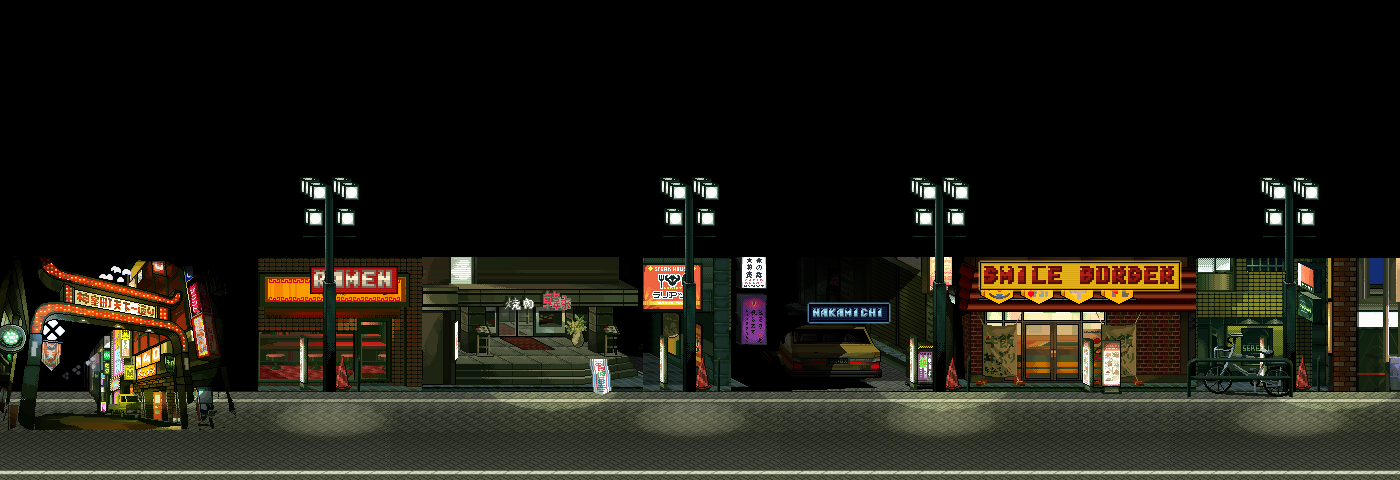
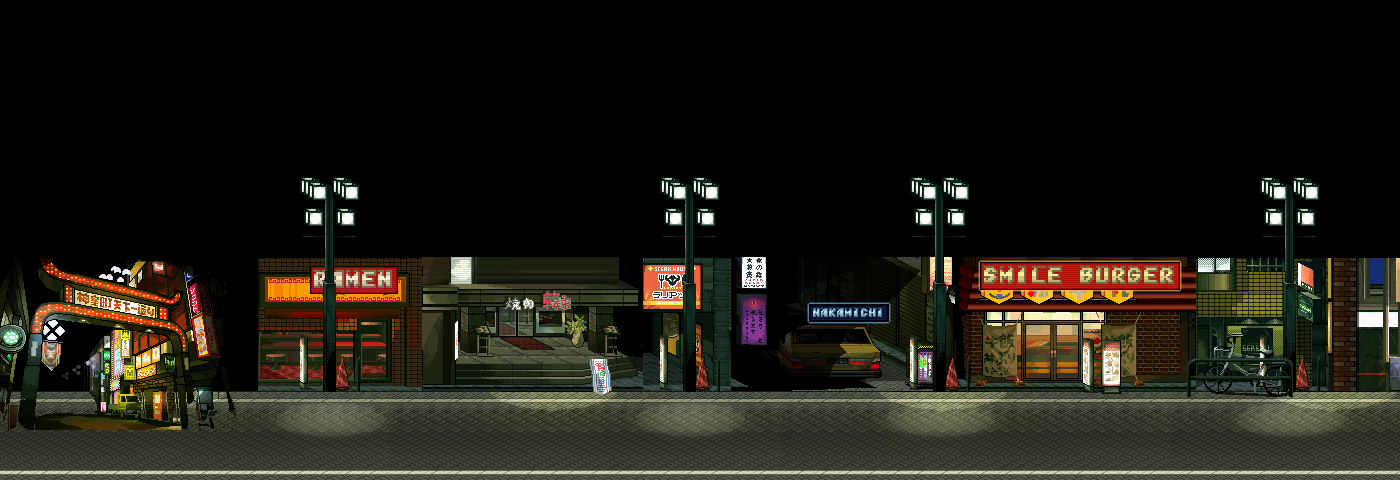
Kamurocho's new streets finished from Streets of Kamurocho's own pieces; the three foes walk
- The six streets (Taihei, Tenkaichi and its gate, Nakamichi, Pink Street,
  the Champion District, Theater Square) built from street.png's
  shopfronts and pavement, the game's own Tenkaichi gate and neon, its
  lamps and props, signs in its own HUD letters
  (tools/build-kamurocho-streets.py, given the game's folder).
- Majima walks on his own boss-stance steps; the knife punk and the host,
  who have no walk in the game, stride on legs pixel-edited from their
  stances (tools/build-kamurocho-sok.py's SYNTH_WALKS).
- The turnings' spots and arrivals moved to the new art.

Claude-Session: https://claude.ai/code/session_01No5GwUqzDzshMkM4ySchmL

Changed region(s): [[0.6757, 0.5312, 0.86, 0.625]]

diff --git a/data/kamurocho-street.js b/data/kamurocho-street.js
@@ -1,7 +1,7 @@
 // Kamurocho, side on (ui/street.js): Streets of Kamurocho's own streets (tools/build-kamurocho-sok.py), and the rest
-// of Yakuza 0's drawn in their colours (tools/build-kamurocho-streets.py, build-kamurocho-insides.py), walked as its
-// beat-'em-up's are, along the street and up and down its pavement. Each scene: its picture (480 high, the floor at
-// the bottom), the floor you can walk on (a polygon, in the picture's pixels), its ways out (`exits`: walk off an
+// of Yakuza 0's put together out of its pieces (tools/build-kamurocho-streets.py; the insides drawn by
+// build-kamurocho-insides.py), walked as its beat-'em-up's are, along the street and up and down its pavement.
+// Each scene: its picture (480 high, the floor at the bottom), the floor you can walk on (a polygon, in the picture's pixels), its ways out (`exits`: walk off an
 // edge, a door's spot and A, or a spot with `walk`: walking that way out of it, as through Poppo's door; to the
 // other scene's x and y), its spots (stand in one and press A: its
 // script), its `things` (pictures laid on it: the manhole cover), and its people (each a SoK sprite from
@@ -97,8 +97,8 @@ window.KAMUROCHO_STREET = {
       exits: [{ spot: [40, 124, 414, 446], to: "backlot", x: 422, y: 446, facing: "down", text: "Ladder up" }],
       spots: [{ x0: 236, x1: 364, y0: 414, y1: 470, script: "Kamurocho_TimeMachine", text: "Time Machine" }]
     },
-    // (Yakuza 0's other streets, this game's own, drawn in the street's colours (tools/build-kamurocho-streets.py),
-    // each 480 high, the pavement you walk on at the bottom. Taihei Boulevard along the south, the gate of Tenkaichi
+    // (Yakuza 0's other streets, this game's own, put together out of Streets of Kamurocho's pieces
+    // (tools/build-kamurocho-streets.py), each 480 high, the pavement you walk on at the bottom. Taihei Boulevard along the south, the gate of Tenkaichi
     // Street off it; Tenkaichi north to Theater Square, Nakamichi Street off its corner across to the street above
     // (Streets of Kamurocho's), Pink Street off Nakamichi and back down to Taihei, and the Champion District's lanes
     // between Pink Street and Theater Square. Turnings are spots: stand in one and press A.)

diff --git a/tools/build-kamurocho-streets.py b/tools/build-kamurocho-streets.py
@@ -121,6 +121,9 @@ def letters(atlas, s, colour=None, scale=1, gap=0):
     for k, ch in enumerate(s):
         if ch == ' ': continue
         g = atlas.crop((glyph_x(ch), FONT_Y, glyph_x(ch) + 7, FONT_Y + FONT_H))
+        if ch == 'O':
+            # (its O is square on the left, a D at a glance: its round right side turned round onto its left)
+            r = g.crop((4, 0, 7, FONT_H)).transpose(Image.FLIP_LEFT_RIGHT); g.paste(r, (0, 0))
         if colour:
             # (the letters' own shading kept, made the neon's colour: their light rows its colour, their dark its shade)
             px = g.load()
@@ -220,7 +223,7 @@ def tenkaichi(P, atlas):
     x = S.bay(P['taxi'])     # (the corner of Nakamichi Street: x 726-951)
     S.at(neon(board(atlas, 'NAKAMICHI', (20, 30, 60), (160, 230, 255), 1), (120, 200, 255)), x + 74, 300)
     x = S.bay(hue(P['gyudon'], 245, 1.4, 1.05))
-    S.at(neon(board(atlas, 'SMILE BURGER', (230, 180, 30), (180, 30, 20), 2), (255, 200, 80)), x + 20, 258)
+    S.at(neon(board(atlas, 'SMILE BURGER', (190, 30, 24), (255, 236, 150), 2), (255, 200, 80)), x + 20, 258)
     S.bay(hue(P['serena'], 12, 1.0, 1.1))
     S.bay(P['block'])
     lamps(S, P, (330, 690, 940, 1290))
@@ -315,7 +318,7 @@ def theater(P, atlas):
     x = S.bay(P['poppo'])
     x = S.bay(hue(P['fujibashi'], 200, 1.2))
     S.at(board(atlas, 'KARAOKE', (240, 200, 40), (40, 20, 10), 2), x + 30, 266)
-    lamps(S, P, (300, 560, 840, 1110))
+    lamps(S, P, (40, 300, 990, 1170))
     for rx in (420, 700): S.put(P['rail'], rx, BASE + 8)
     S.put(P['kamuro'], 380, BASE + 6); S.put(P['busstop'], 920, BASE + 6)
     S.put(P['bike2'], 1000, BASE + 6)

diff --git a/README.md b/README.md
@@ -3645,16 +3645,19 @@ balls here (bring them along at the Time Machine to fight), and there are no wil
   through its door (every convenience store on the street can be gone into; Poppo's the one). **Serena's Backlot**:
   down the passage beside Serena's door, the yard behind the bar, its manhole cover on the asphalt. **Under the
   Street**: down that manhole, a storm drain where the Time Machine stands. And the rest of Yakuza 0's Kamurocho:
-  **Taihei Boulevard** along the south (a pachinko parlour, the bank, karaoke, a drugstore, an izakaya), the red gate
-  of **Tenkaichi Street** off it (ramen, sushi, a game centre, Smile Burger, robatayaki), **Nakamichi Street** across
-  the middle (a coffee shop, a hostess club, a pawn shop, the love hotel's sign), **Pink Street**'s cabarets and host
-  club, the **Champion District**'s lanes of tiny bars, and **Theater Square** with the Kamuro Theater and its
-  fountain. Streets of Kamurocho has no insides of its shops and only its one street, so those are this game's own,
-  drawn in the street's colours: Poppo, the backlot and the storm drain by `tools/build-kamurocho-insides.py` (Poppo's
-  sign off its shopfront, its shelves, drinks fridge and counter, its clerk, a man at ease in Poppo's blue uniform;
-  the backlot's green tiles, back door, crates, bin bags and fence; the drain's wet concrete, pipes, culvert and
-  ladder, and the Time Machine three times over), the streets by `tools/build-kamurocho-streets.py` (their signs in
-  Japanese, from the IPA Gothic font). You're drawn twice your size, to stand as tall as its people. Walk off a
+  **Taihei Boulevard** along the south (Poppo, a pachinko hall, the yakiniku place up its steps, the gyudon place),
+  the red gate of **Tenkaichi Street** off it (ramen, yakiniku, Smile Burger, the corner of Nakamichi),
+  **Nakamichi Street** across the middle (a coffee shop, the hostess club, a bar, a pawn shop), **Pink Street**'s
+  cabaret, host club, Club Moon and lounge in pink neon, the **Champion District**'s lanes of tiny bars under their
+  wires, and **Theater Square** with the Kamuro Cinema and the Kamuro Theater's arcade and marquee. Streets of
+  Kamurocho has no insides of its shops and only its one street, so those are this game's own: Poppo, the backlot
+  and the storm drain drawn in the street's colours by `tools/build-kamurocho-insides.py` (Poppo's sign off its
+  shopfront, its shelves, drinks fridge and counter, its clerk, a man at ease in Poppo's blue uniform; the backlot's
+  green tiles, back door, crates, bin bags and fence; the drain's wet concrete, pipes, culvert and ladder, and the
+  Time Machine three times over), and the streets put together by `tools/build-kamurocho-streets.py` out of Streets
+  of Kamurocho's own pieces (given the game's folder): the street's shopfronts and pavement, the alley's back doors,
+  its title screen's Tenkaichi gate and neon, its atlas's lamp posts, bicycles, signboards and overhead wires, and
+  its own letters for the new signs, recoloured and relit. You're drawn twice your size, to stand as tall as its people. Walk off a
   street's end into the next (the street's left end is Nakamichi Street's right, its right the alley; Tenkaichi
   runs from Taihei's gate to Theater Square, Pink Street from Taihei's end to Nakamichi, the Champion District from
   Pink Street to the square); stand at a turning (Tenkaichi's gate, the corner of Nakamichi, the way into Pink
@@ -3880,8 +3883,11 @@ down go through what you can choose, left and right change it, A (and YES) is yo
   but for its `female` ones (Bulma, Chi-Chi and the townswoman, Android 18, Peach, Francesca, Goombella), and its
   `presets` add more, put together from its family's parts: a Hylian man and woman, a Kokiri boy and girl, a Zora
   and a Zora maiden, a Gerudo woman and man, and a woman for the Saiyans (Chi-Chi's face and hair on Vegeta's armour),
-  Namekians (in Namekian green), the Frieza Clan (Android 18's, frost white), the Majin and the Kais (Videl's, from
-  Buu's Fury, in pink and in Kai purple), the Mushroom People and the Koopas (in pink: neither game has a woman of
+  Namekians (in Namekian green), the Majin (Videl's, from Buu's Fury, in pink), the Frieza Clan and the Kais (heads of
+  their own race's made for them, as neither has a woman to draw on and another race's never sat right: Frieza's
+  head with winged lashes, lips, a softer chin and a pink gem at her brow, in frost white; Kibito's face with lashes
+  and lips under his long white hair, on his robe, in Kai purple: `tools/build-player-looks.py`'s `MADE_HEADS`, each
+  in its race's Face row), the Mushroom People and the Koopas (in pink: neither game has a woman of
   theirs to draw on).
 - **Walking**: four frames a stride where the sprites have them (the Dragon World's: a step, the frame between, the
   other step, the frame between, in the walk's own order: the steps the walk's opposite frames, 0 and 2 or 1 and 3),
@@ -3904,8 +3910,10 @@ down go through what you can choose, left and right change it, A (and YES) is yo
   spots are their "hair"; Superstar Saga has no Toadsworth); and Bowser for the Koopas (shrunk to the others' size, Bowser more). And from Paper Mario:
   The Thousand-Year Door, drawn from its models: a Pianta, Don Pianta, Frankie and Francesca for the Piantas (their
   sprouts are their "hair", their grass skirts the trim); a Goomba and Goombella for the Goombas; Koops for the Koopas.
-  Paper Mario's people are paper: they face you a little to the left, so that's their side too, and turned round
-  it's their backs.
+  Paper Mario's people are paper: the models face you a little to the left and have no side, and Superstar Saga's
+  Toad, shrunk, is his back half turned; so their sides are drawn a pixel at a time (`SIDE_ART`: a Pianta's, used for
+  all four in their own colours, a Goomba's, Goombella's, Koops's and Toad's, each facing left, its legs striding as
+  it walks), and Toad's eyes, lost in the shrinking, are put back facing you.
 - **Colours**: your hair, your tunic or gi, its trim and your skin, each "Original" (the part's own) or one of
   `LOOK_COLOURS` (30 hair colours, Super Saiyan gold, platinum, auburn, mint and the rest; 33 for clothes; each
   race's own skins, seven or more: people's five and porcelain, olive, golden and deep, the Zora's river blue,
